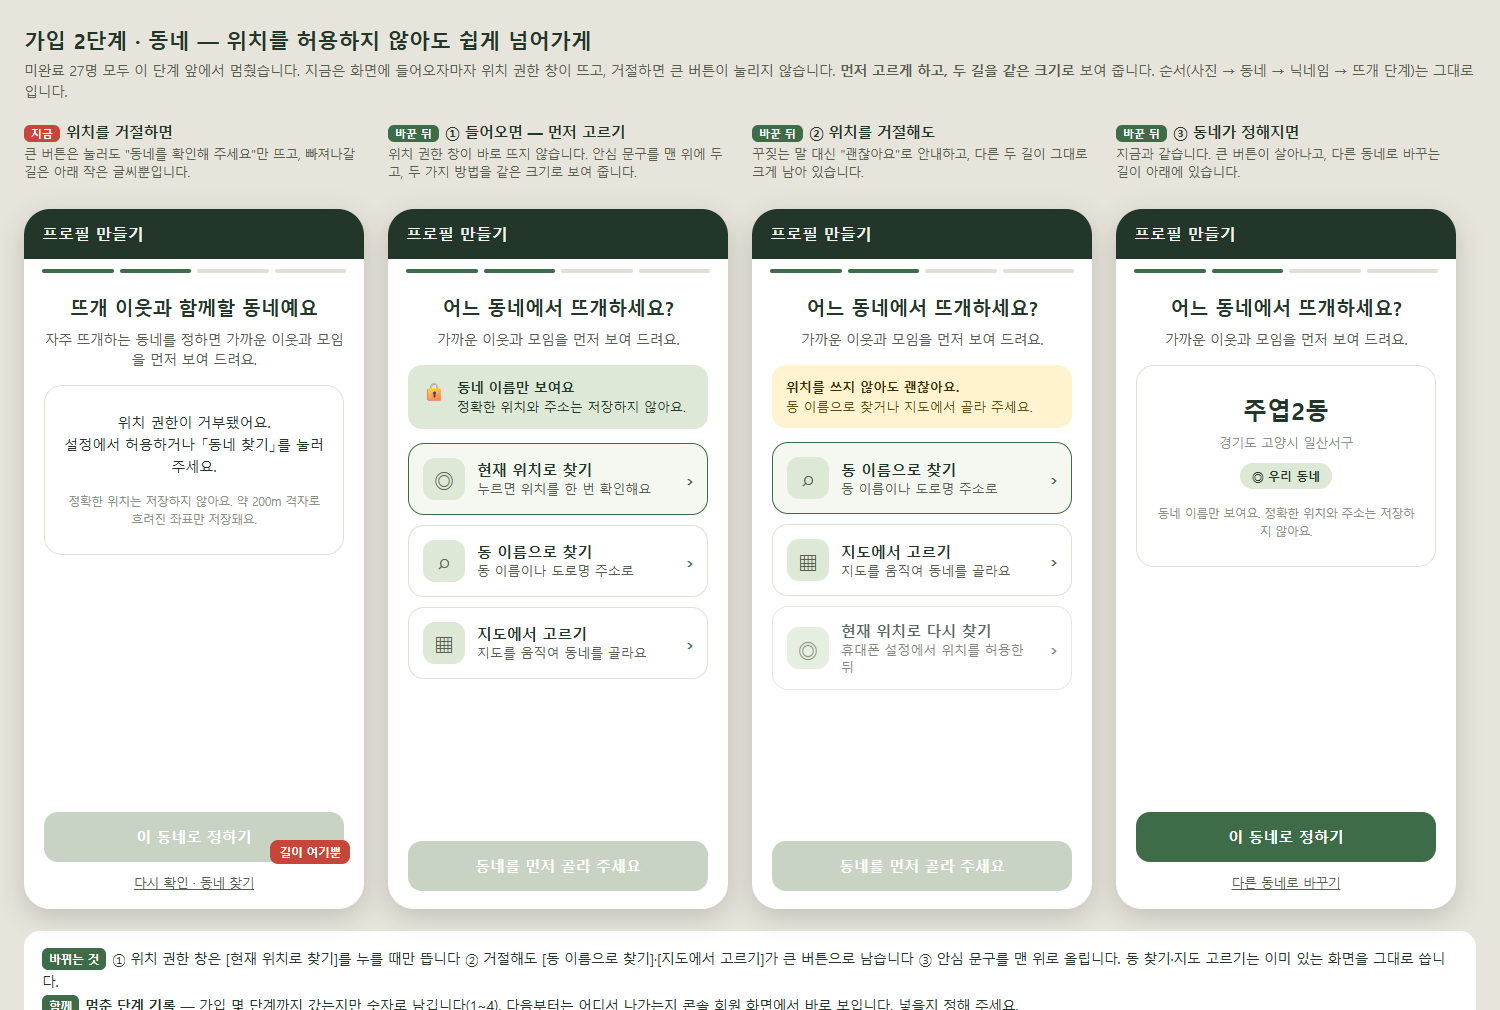
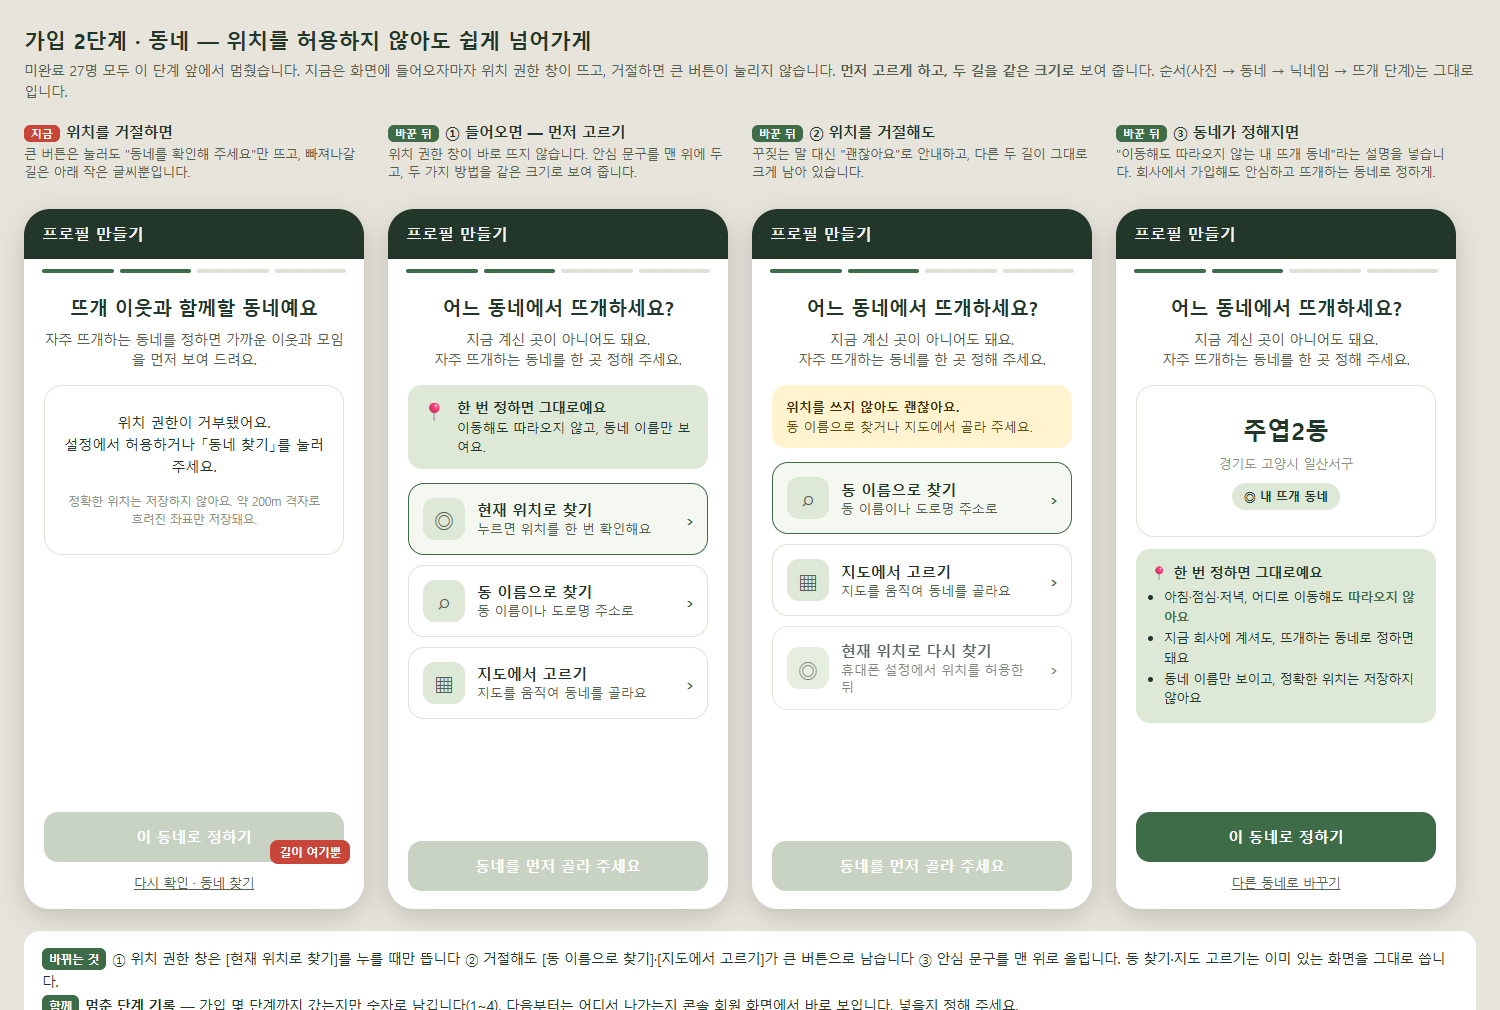
시안: 가입 동네 화면에 '한 번 정하면 그대로(이동해도 따라오지 않음)' 설명 [skip ci]

Changed region(s): [[0.2453, 0.3069, 0.736, 0.7059], [0.736, 0.3069, 0.9813, 0.7366], [0.736, 0.1228, 0.9507, 0.1842]]

diff --git a/resources/mockups/onboard_dong_20261115.html b/resources/mockups/onboard_dong_20261115.html
@@ -20,6 +20,7 @@ h1{font-size:21px;margin-bottom:6px}.sub{font-size:13.5px;color:#55604F;margin-b
 .opt b{display:block;font-size:15px;color:#22362A}.opt .ic{width:42px;height:42px;border-radius:12px;background:#DDE8D6;display:grid;place-items:center;font-size:20px;flex:none}
 .opt.p{border-color:#3E6B48;background:#F4F8F1}.opt span.go{margin-left:auto;color:#3E6B48;font-weight:800;font-size:18px}
 .note{background:#FFF4CF;border-radius:14px;padding:12px 14px;font-size:13px;line-height:1.5;text-align:left;color:#5F4D12;margin-bottom:14px}.note b{color:#3B2F06}
+.fix{background:#DDE8D6;border-radius:14px;padding:13px 14px;margin-top:12px;text-align:left;font-size:12.5px;line-height:1.55}.fix b{display:block;font-size:13.5px;margin-bottom:5px}.fix ul{padding-left:1.1em}.fix li{margin:2px 0}.fix u{text-decoration:none;font-weight:800;color:#3E6B48}
 .dn{font-size:24px;font-weight:800}.ds{font-size:12.5px;color:#8A9384;margin:4px 0 10px}.chip{display:inline-block;background:#DDE8D6;border-radius:999px;padding:4px 12px;font-size:12px;font-weight:700}
 .ft{padding:14px 20px 18px;text-align:center}.btn{height:50px;border-radius:14px;background:#3E6B48;color:#fff;display:grid;place-items:center;font-size:15px;font-weight:800}
 .btn.dis{background:#C9D3C4}.lk{font-size:12.5px;color:#55604F;margin-top:12px;text-decoration:underline}
@@ -39,8 +40,8 @@ h1{font-size:21px;margin-bottom:6px}.sub{font-size:13.5px;color:#55604F;margin-b
 
 <div class="col"><div class="cap"><em class="n">바꾼 뒤</em>① 들어오면 — 먼저 고르기</div><div class="cap2">위치 권한 창이 바로 뜨지 않습니다. 안심 문구를 맨 위에 두고, 두 가지 방법을 같은 크기로 보여 줍니다.</div>
 <div class="ph"><div class="top">프로필 만들기</div><div class="prog"><i class="on"></i><i class="on"></i><i></i><i></i></div>
-<div class="bd"><h2>어느 동네에서 뜨개하세요?</h2><p class="d">가까운 이웃과 모임을 먼저 보여 드려요.</p>
-<div class="safe"><i>🔒</i><div><b>동네 이름만 보여요</b>정확한 위치와 주소는 저장하지 않아요.</div></div>
+<div class="bd"><h2>어느 동네에서 뜨개하세요?</h2><p class="d">지금 계신 곳이 아니어도 돼요.<br>자주 뜨개하는 동네를 한 곳 정해 주세요.</p>
+<div class="safe"><i>📍</i><div><b>한 번 정하면 그대로예요</b>이동해도 따라오지 않고, 동네 이름만 보여요.</div></div>
 <div class="opt p"><div class="ic">◎</div><div><b>현재 위치로 찾기</b>누르면 위치를 한 번 확인해요</div><span class="go">›</span></div>
 <div class="opt"><div class="ic">⌕</div><div><b>동 이름으로 찾기</b>동 이름이나 도로명 주소로</div><span class="go">›</span></div>
 <div class="opt"><div class="ic">▦</div><div><b>지도에서 고르기</b>지도를 움직여 동네를 골라요</div><span class="go">›</span></div>
@@ -49,7 +50,7 @@ h1{font-size:21px;margin-bottom:6px}.sub{font-size:13.5px;color:#55604F;margin-b
 
 <div class="col"><div class="cap"><em class="n">바꾼 뒤</em>② 위치를 거절해도</div><div class="cap2">꾸짖는 말 대신 "괜찮아요"로 안내하고, 다른 두 길이 그대로 크게 남아 있습니다.</div>
 <div class="ph"><div class="top">프로필 만들기</div><div class="prog"><i class="on"></i><i class="on"></i><i></i><i></i></div>
-<div class="bd"><h2>어느 동네에서 뜨개하세요?</h2><p class="d">가까운 이웃과 모임을 먼저 보여 드려요.</p>
+<div class="bd"><h2>어느 동네에서 뜨개하세요?</h2><p class="d">지금 계신 곳이 아니어도 돼요.<br>자주 뜨개하는 동네를 한 곳 정해 주세요.</p>
 <div class="note"><b>위치를 쓰지 않아도 괜찮아요.</b><br>동 이름으로 찾거나 지도에서 골라 주세요.</div>
 <div class="opt p"><div class="ic">⌕</div><div><b>동 이름으로 찾기</b>동 이름이나 도로명 주소로</div><span class="go">›</span></div>
 <div class="opt"><div class="ic">▦</div><div><b>지도에서 고르기</b>지도를 움직여 동네를 골라요</div><span class="go">›</span></div>
@@ -57,10 +58,10 @@ h1{font-size:21px;margin-bottom:6px}.sub{font-size:13.5px;color:#55604F;margin-b
 </div>
 <div class="ft"><div class="btn dis">동네를 먼저 골라 주세요</div></div></div></div>
 
-<div class="col"><div class="cap"><em class="n">바꾼 뒤</em>③ 동네가 정해지면</div><div class="cap2">지금과 같습니다. 큰 버튼이 살아나고, 다른 동네로 바꾸는 길이 아래에 있습니다.</div>
+<div class="col"><div class="cap"><em class="n">바꾼 뒤</em>③ 동네가 정해지면</div><div class="cap2">"이동해도 따라오지 않는 내 뜨개 동네"라는 설명을 넣습니다. 회사에서 가입해도 안심하고 뜨개하는 동네로 정하게.</div>
 <div class="ph"><div class="top">프로필 만들기</div><div class="prog"><i class="on"></i><i class="on"></i><i></i><i></i></div>
-<div class="bd"><h2>어느 동네에서 뜨개하세요?</h2><p class="d">가까운 이웃과 모임을 먼저 보여 드려요.</p>
-<div class="box"><div class="dn">주엽2동</div><div class="ds">경기도 고양시 일산서구</div><span class="chip">◎ 우리 동네</span><small>동네 이름만 보여요. 정확한 위치와 주소는 저장하지 않아요.</small></div></div>
+<div class="bd"><h2>어느 동네에서 뜨개하세요?</h2><p class="d">지금 계신 곳이 아니어도 돼요.<br>자주 뜨개하는 동네를 한 곳 정해 주세요.</p>
+<div class="box"><div class="dn">주엽2동</div><div class="ds">경기도 고양시 일산서구</div><span class="chip">◎ 내 뜨개 동네</span></div><div class="fix"><b>📍 한 번 정하면 그대로예요</b><ul><li>아침·점심·저녁, 어디로 이동해도 <u>따라오지 않아요</u></li><li>지금 회사에 계셔도, 뜨개하는 동네로 정하면 돼요</li><li>동네 이름만 보이고, 정확한 위치는 저장하지 않아요</li></ul></div></div>
 <div class="ft"><div class="btn">이 동네로 정하기</div><div class="lk">다른 동네로 바꾸기</div></div></div></div>
 
 </div>
